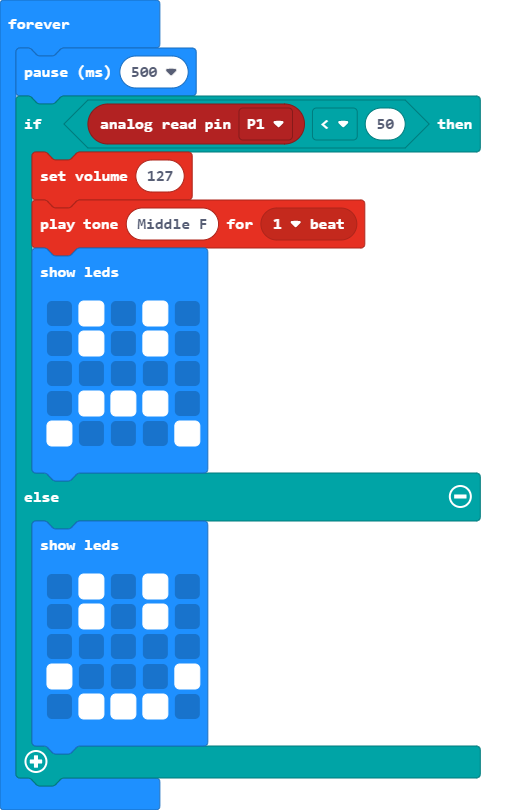
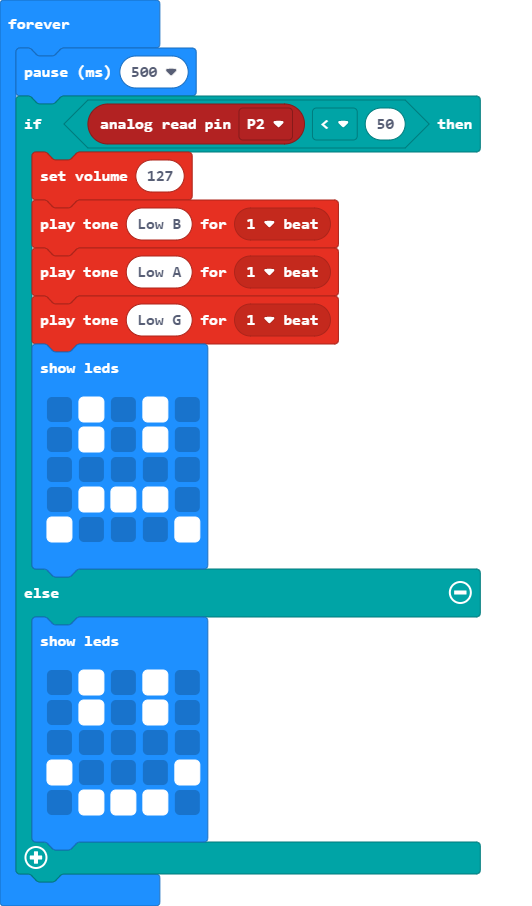
Update pxt.json, main.blocks, main.ts

Changed region(s): [[0.0, 0.0, 0.9023, 0.9877]]

diff --git a/main.ts b/main.ts
@@ -1,8 +1,10 @@
 basic.forever(function () {
     basic.pause(500)
-    if (pins.analogReadPin(AnalogPin.P1) < 50) {
+    if (pins.analogReadPin(AnalogPin.P2) < 50) {
         music.setVolume(127)
-        music.playTone(349, music.beat(BeatFraction.Whole))
+        music.playTone(247, music.beat(BeatFraction.Whole))
+        music.playTone(220, music.beat(BeatFraction.Whole))
+        music.playTone(196, music.beat(BeatFraction.Whole))
         basic.showLeds(`
             . # . # .
             . # . # .
